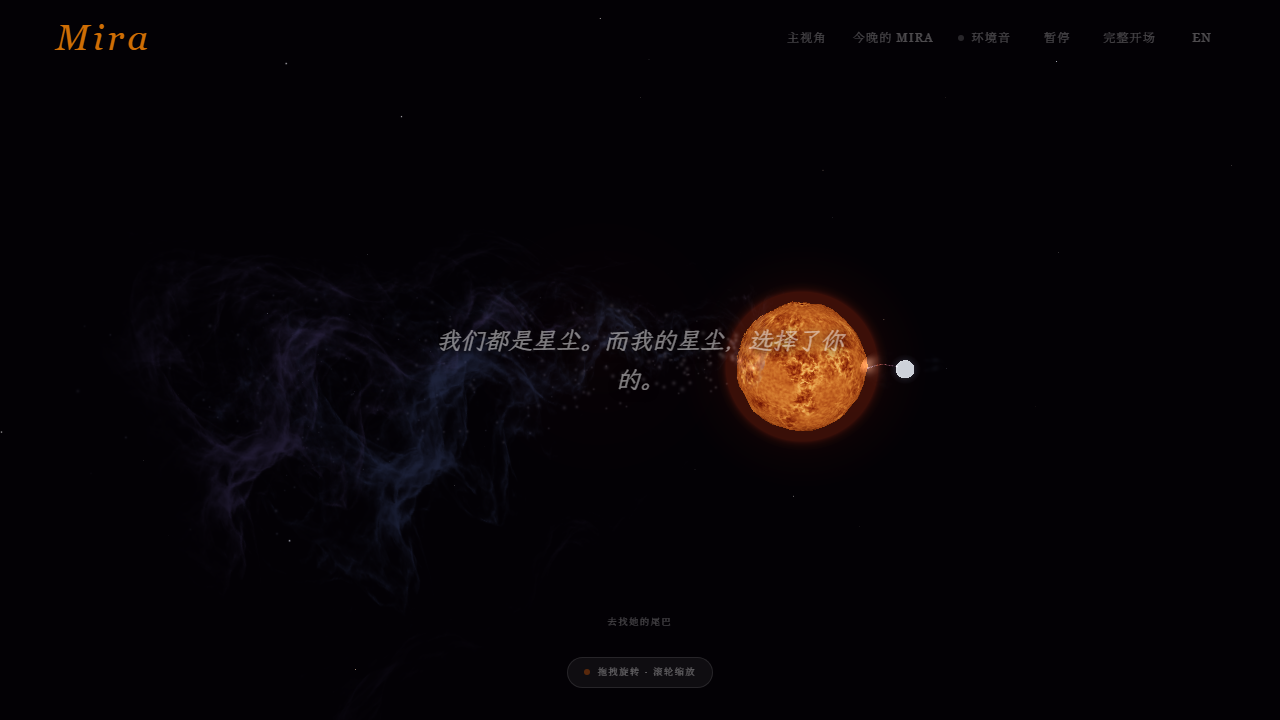
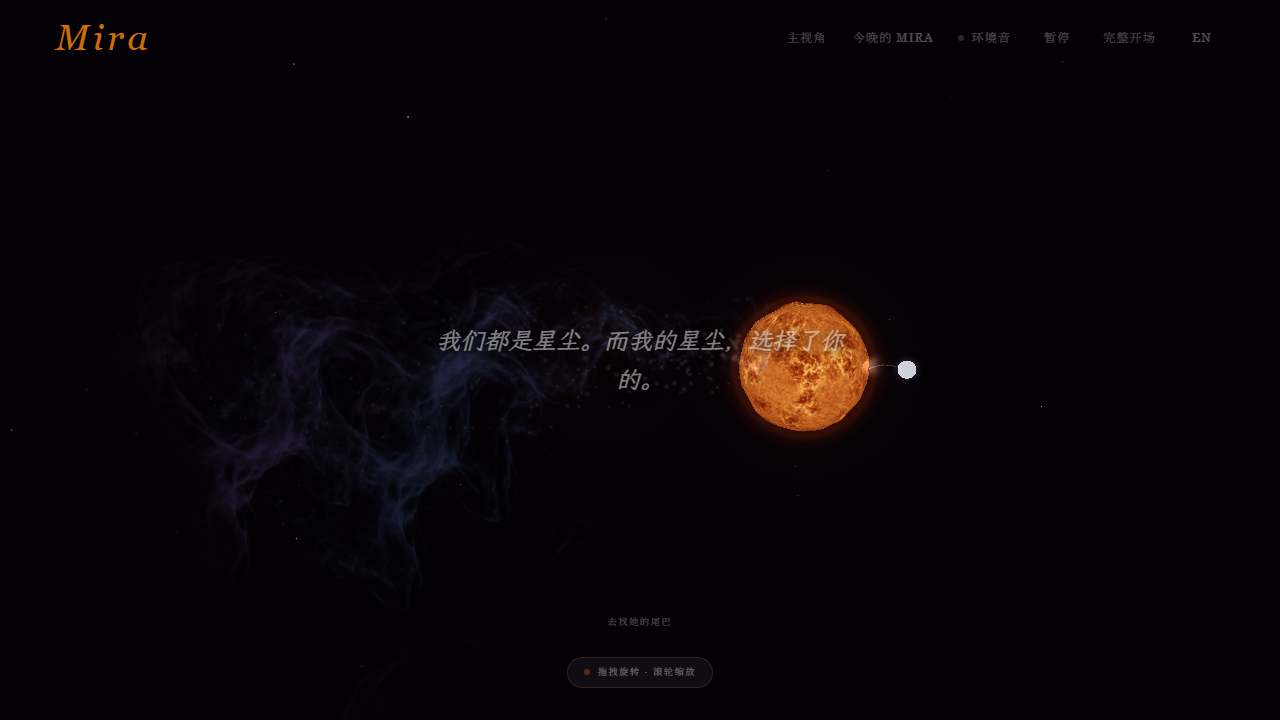
Compose the daily-sky gain in the seam and finish the #27 evidence (#27)

Changed region(s): [[0.5625, 0.3972, 0.6875, 0.6111]]

diff --git a/src/lib/riverLighting.ts b/src/lib/riverLighting.ts
@@ -76,12 +76,14 @@ export function skyRiverGain(
 }
 
 // How tonight's sky sits on the river beyond the plain gain/warmth above (issue #27).
-// One deterministic sky in, three coordinated channels out, so local colour temperature,
+// One deterministic sky in, four coordinated channels out, so local colour temperature,
 // brightness and material density move together and the same date always renders the
-// same river. warmth is the curve the river already follows, collected into this seam so
-// every daily channel has one home; the other two are deliberately small — the sky
-// modulates the river, it never re-tunes it.
+// same river. gain composes the plain coupling's gain with the daily lift here, once, so
+// the component and the tests consume one formula; warmth is the curve the river already
+// follows, collected into this seam so every daily channel has one home. The lift and
+// the density are deliberately small — the sky modulates the river, it never re-tunes it.
 export interface DailySkyCoupling {
+  gain: number;
   warmth: number;
   brightnessLift: number;
   density: number;
@@ -90,18 +92,21 @@ export interface DailySkyCoupling {
 // The lift peaks near 1% of river gain; the density swing stays within ±4%. Both sit far
 // inside the protection of the gain floor above (0.8): the tail can thin or thicken with
 // the season, never empty.
-const DAILY_LIFT_AMPLITUDE = 0.05;
-const DAILY_DENSITY_AMPLITUDE = 0.08;
+export const DAILY_LIFT_AMPLITUDE = 0.05;
+export const DAILY_DENSITY_AMPLITUDE = 0.08;
 
 export function dailySkyCoupling(sky: SkyState): DailySkyCoupling {
   const brightness = clamp01(sky.brightness);
   const colorShift = clamp01(sky.colorShift);
+  const plain = skyRiverGain(brightness, colorShift);
+  // Colour saturates ahead of luminosity (starClock), so their gap reads as the star
+  // running ahead of its own light: zero at maximum and minimum where the curves meet,
+  // peaking mid-cycle. A lift on top of the gain, not a second gain.
+  const brightnessLift = DAILY_LIFT_AMPLITUDE * Math.max(0, colorShift - brightness);
   return {
-    warmth: skyRiverGain(brightness, colorShift).warmth,
-    // Colour saturates ahead of luminosity (starClock), so their gap reads as the star
-    // running ahead of its own light: zero at maximum and minimum where the curves meet,
-    // peaking mid-cycle. A lift on top of the gain, not a second gain.
-    brightnessLift: DAILY_LIFT_AMPLITUDE * Math.max(0, colorShift - brightness),
+    gain: plain.gain + brightnessLift,
+    warmth: plain.warmth,
+    brightnessLift,
     // A brighter Mira A drives a stronger wind and spreads the river slightly thinner; a
     // faint one lets material settle. Centred on 0.5 — the exact cycle mean of the two
     // half-cosines — so the year as a whole neither gains nor loses river.

diff --git a/src/components/Scene/MiraTail.tsx b/src/components/Scene/MiraTail.tsx
@@ -6,8 +6,7 @@ import { createTailMaterial } from '../../shaders/tail';
 import { useReducedMotion } from 'framer-motion';
 import RiverVeil from './RiverVeil';
 import { advanceTime, captureMode } from '../../lib/captureMode';
-import { skyRiverGain, dailySkyCoupling, tailBaseOpacity } from '../../lib/riverLighting';
-import type { SkyRiverCoupling } from '../../lib/riverLighting';
+import { dailySkyCoupling, tailBaseOpacity } from '../../lib/riverLighting';
 import { useBinaryStar } from '../../hooks';
 
 interface MiraTailProps {
@@ -71,14 +70,10 @@ export default function MiraTail({
   const reduceMotion = Boolean(useReducedMotion());
   const capture = captureMode();
   const skyState = useBinaryStar((state) => state.sky);
-  // The daily coupling (#27): one deterministic sky drives the river's warmth, a small
-  // brightness lift, and the density of its material — all re-derived only when the sky
-  // itself is refreshed, never per frame.
+  // The daily coupling (#27): one deterministic sky drives the river's gain (a small lift
+  // over the plain coupling), warmth, and the density of its material — all re-derived
+  // only when the sky itself is refreshed, never per frame.
   const coupling = useMemo(() => dailySkyCoupling(skyState), [skyState]);
-  const sky = useMemo<SkyRiverCoupling>(() => {
-    const base = skyRiverGain(skyState.brightness, skyState.colorShift);
-    return { gain: base.gain + coupling.brightnessLift, warmth: coupling.warmth };
-  }, [skyState, coupling]);
 
   const geometry = useMemo(() => {
     const { positions, seeds, sizes, lengths, spreads } =
@@ -117,8 +112,8 @@ export default function MiraTail({
     if (!mat) return;
     mat.uniforms.uTime.value = advanceTime(mat.uniforms.uTime.value, delta, { reduceMotion });
     mat.uniforms.uOpacity.value = opacityRef.current * tailBaseOpacity(textureReadyRef.current, particleCount, coupling.density);
-    mat.uniforms.uSkyGain.value = sky.gain;
-    mat.uniforms.uSkyWarmth.value = sky.warmth;
+    mat.uniforms.uSkyGain.value = coupling.gain;
+    mat.uniforms.uSkyWarmth.value = coupling.warmth;
     if (miraBRef.current) {
       miraBRef.current.getWorldPosition(bWorldPos.current);
       mat.uniforms.uMiraBPos.value.copy(bWorldPos.current);
@@ -131,7 +126,7 @@ export default function MiraTail({
   return (
     <group>
       <points ref={pointsRef} geometry={geometry} material={material} raycast={() => {}} />
-      <RiverVeil opacityRef={opacityRef} readyRef={textureReadyRef} length={tailLength} reduceMotion={reduceMotion} miraBRef={miraBRef} sky={sky} density={coupling.density} />
+      <RiverVeil opacityRef={opacityRef} readyRef={textureReadyRef} length={tailLength} reduceMotion={reduceMotion} miraBRef={miraBRef} sky={coupling} />
     </group>
   );
 }

diff --git a/src/components/Scene/RiverVeil.tsx b/src/components/Scene/RiverVeil.tsx
@@ -11,7 +11,7 @@ import {
   MIRA_B_GAIN,
   veilLayerWeight,
 } from '../../lib/riverLighting';
-import type { SkyRiverCoupling } from '../../lib/riverLighting';
+import type { DailySkyCoupling } from '../../lib/riverLighting';
 
 const vertexShader = `
   attribute vec3 aTangent;
@@ -140,15 +140,15 @@ function createLayer(length: number, index: number, count: number, accent: boole
   return { geometry, material };
 }
 
-export default function RiverVeil({ opacityRef, readyRef, length, reduceMotion, miraBRef, sky, density }: {
+export default function RiverVeil({ opacityRef, readyRef, length, reduceMotion, miraBRef, sky }: {
   opacityRef: MutableRefObject<number>;
   readyRef: MutableRefObject<boolean>;
   length: number;
   reduceMotion: boolean;
   miraBRef: MutableRefObject<THREE.Group | null>;
-  sky: SkyRiverCoupling;
-  // Daily-sky density (#27): tonight's material is a touch thicker or thinner, never absent.
-  density: number;
+  // The daily coupling (#27): gain/warmth as ever, plus a density that makes tonight's
+  // material a touch thicker or thinner, never absent.
+  sky: DailySkyCoupling;
 }) {
   const tier = resolveQualityTier();
   const groupRef = useRef<THREE.Group>(null);
@@ -201,7 +201,7 @@ export default function RiverVeil({ opacityRef, readyRef, length, reduceMotion, 
       const material = (child as THREE.Mesh<THREE.BufferGeometry, THREE.ShaderMaterial>).material;
       material.uniforms.uTime.value = advanceTime(material.uniforms.uTime.value, delta, { reduceMotion });
       const isAccent = material.uniforms.uAccent.value === 1;
-      material.uniforms.uOpacity.value = opacityRef.current * veilLayerWeight(i, count, isAccent) / count * density;
+      material.uniforms.uOpacity.value = opacityRef.current * veilLayerWeight(i, count, isAccent) / count * sky.density;
       material.uniforms.uMiraBPos.value.copy(bWorldPos.current);
       material.uniforms.uSkyGain.value = sky.gain;
       material.uniforms.uSkyWarmth.value = sky.warmth;

diff --git a/tests/unit/riverLighting.spec.ts b/tests/unit/riverLighting.spec.ts
@@ -10,6 +10,7 @@ import {
   veilLightResponse,
   skyRiverGain,
   dailySkyCoupling,
+  DAILY_DENSITY_AMPLITUDE,
   goldAccentStrength,
   veilLayerWeight,
   tailBaseOpacity,
@@ -170,17 +171,18 @@ test.describe('daily sky coupling', () => {
     for (let day = 0; day < MIRA_PERIOD_DAYS; day += 3) {
       const sky = skyStateAt(new Date(MIRA_MAXIMUM_EPOCH_MS + day * DAY_MS));
       const coupling = dailySkyCoupling(sky);
-      expect(coupling.density).toBeGreaterThanOrEqual(0.95);
-      expect(coupling.density).toBeLessThanOrEqual(1.05);
+      // The amplitude is centred on 1, so brightness 0..1 swings density exactly ±amplitude/2.
+      expect(coupling.density).toBeGreaterThanOrEqual(1 - DAILY_DENSITY_AMPLITUDE / 2);
+      expect(coupling.density).toBeLessThanOrEqual(1 + DAILY_DENSITY_AMPLITUDE / 2);
       expect(coupling.brightnessLift).toBeGreaterThanOrEqual(0);
       expect(coupling.brightnessLift).toBeLessThanOrEqual(0.01);
       expect(coupling.warmth).toBeGreaterThanOrEqual(0);
       expect(coupling.warmth).toBeLessThanOrEqual(0.25);
       // Stacked on the dimmest night the lift never lifts the river past a few percent,
-      // and the gain floor from the plain coupling still holds.
-      const gain = skyRiverGain(sky.brightness, sky.colorShift).gain + coupling.brightnessLift;
-      expect(gain).toBeGreaterThanOrEqual(0.8);
-      expect(gain).toBeLessThanOrEqual(1.04);
+      // and the gain floor from the plain coupling still holds — the seam composes the
+      // gain once, so this is the same number the component writes to the uniform.
+      expect(coupling.gain).toBeGreaterThanOrEqual(0.8);
+      expect(coupling.gain).toBeLessThanOrEqual(1.04);
     }
   });
 

diff --git a/docs/design-audit-2026-09-17/evidence/daily-sky-27.md b/docs/design-audit-2026-09-17/evidence/daily-sky-27.md
@@ -6,11 +6,12 @@
 
 ## 改动内容
 
-- **纯函数 seam（`src/lib/riverLighting.ts`）**：新增 `dailySkyCoupling(sky: SkyState)`，与 `skyRiverGain` 同文件同风格，把"今晚的天空"落到光河的三个协调通道：
-  - `warmth`：局部色温，沿用既有 `0.25·(1−colorShift)` 曲线（数值与 `skyRiverGain` 完全一致），收进同一 seam 让三个通道同源同行；
+- **纯函数 seam（`src/lib/riverLighting.ts`）**：新增 `dailySkyCoupling(sky: SkyState)`，与 `skyRiverGain` 同文件同风格，把"今晚的天空"落到光河的协调通道上：
+  - `warmth`：局部色温，沿用既有 `0.25·(1−colorShift)` 曲线（数值与 `skyRiverGain` 完全一致），收进同一 seam 让各通道同源同行；
+  - `gain`：`skyRiverGain` 的增益叠加 `brightnessLift` 后在 seam 内一次组好，组件与单测消费同一公式，不再各自拼装；
   - `brightnessLift`：亮度微调 `0.05·max(0, colorShift−brightness)`。颜色比光度先饱和（starClock 的既有设计），两者的差在极大/极小恰为零、在周期中段达峰——实测全周期 0 ~ 0.0093，叠在既有 gain（地板 0.8）之上是约 1% 的抬起，不是第二个增益；
   - `density`：微妙密度 `1 + 0.08·(0.5−brightness)`，全周期 0.96 ~ 1.04。0.5 是两段半余弦的精确周期均值，全年不留净增减；较亮的 Mira A 星风更强、光河略稀，较暗时物质略沉。
-- **消费点**：尾巴粒子透明度 `tailBaseOpacity(..., density)`（第三参数缺省为 1，旧调用数值不变）与光河各层 `uOpacity` 同乘 density（`MiraTail.tsx`、`RiverVeil.tsx`）；`uSkyGain` 叠加 brightnessLift。密度同时作用于贴图路径与程序化回退路径，稀疏的夜晚读作"更稀疏的河"，不会读成"河断了"。
+- **消费点**：尾巴点精灵的基础不透明度 `tailBaseOpacity(..., density)`（第三参数缺省为 1，旧调用数值不变）与光河各层 `uOpacity` 同乘 density（`MiraTail.tsx`、`RiverVeil.tsx`）；`uSkyGain`/`uSkyWarmth` 直接取 seam 组好的 `coupling.gain/warmth`。密度同时作用于贴图路径与程序化回退路径，稀疏的夜晚读作"更稀疏的河"，不会读成"河断了"。
 - **天空刷新（`src/App.tsx`）**：回到前台（visibilitychange → visible）时 `setSky(currentSkyState())`——`setSky` 此前有定义无调用方。不加轮询：天空按日变化，回到前台一次重读足够。 pinned clock（`?epoch=`）路径同源，capture 模式不受影响。`App.tsx` 同时暴露 `data-sky-density` 供 e2e 与证据脚本读取。
 - **未动**：`advanceTime` 的暂停/后台冻结与 delta clamp（不补播由它继续保证）、今晚的 Mira 快照路径、里程碑/相位读数、直达/重播、父票 #18 的其他部分。
 
@@ -67,6 +68,7 @@
 
 - `experiments/verify-baseline.mjs` 断言的是同代码两次重采逐像素一致，不受影响（PASS，见门槛表）。
 - 既有 `baselines/after/` 等已提交基线**未重捕覆盖**：其变化幅度为河域约 1–2% 亮度/不透明度，低于视觉可辨阈值；README 亦已声明跨代码变更的像素对比会有局部翻转。如需一份反映新耦合的默认日期基准，可在观看者确认后另起标签重捕。
+- 证据目录中的六张 `interface-20-*.png` **已按新耦合重捕**（界面叠在实时场景上，场景变了约 1–2%，重捕让文档与画面保持一致）；`interface-20.md` 文字结论不受影响。基线（回归参照）与证据图（文档插图）因此有意走了两条路。
 
 ## 门槛数字（本分支）
 
@@ -74,9 +76,9 @@
 | --- | --- |
 | `npm run build` | 通过（仅有既有的 >500 kB chunk 提示） |
 | `npm run lint` | 通过 |
-| `npx playwright test --project=unit` | 205 passed（新增 5 例 daily sky coupling/tail density） |
-| `npx playwright test`（全量） | 见提交前最终运行 |
-| `node experiments/verify-baseline.mjs` | PASS |
+| `npx playwright test --project=unit` | 201 passed（含新增 5 例 daily sky coupling / tail density） |
+| `npx playwright test`（全量，chromium 83 + unit 201） | 284 passed（5.6 分钟） |
+| `node experiments/verify-baseline.mjs` | PASS（default 与 az90 逐字节一致；首轮遇已知热机抖动，安静重跑即过） |
 
 ## TDD 记录
 
